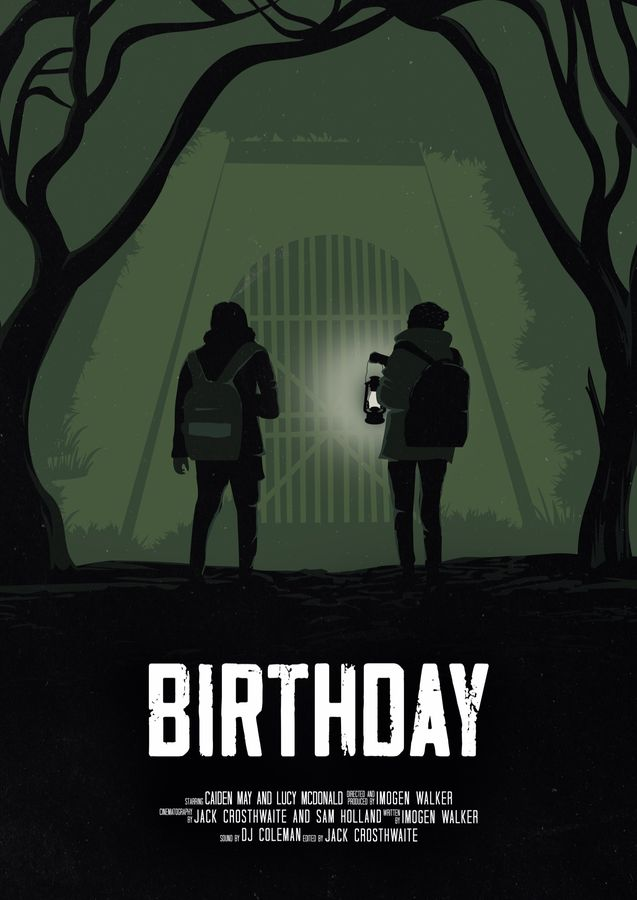
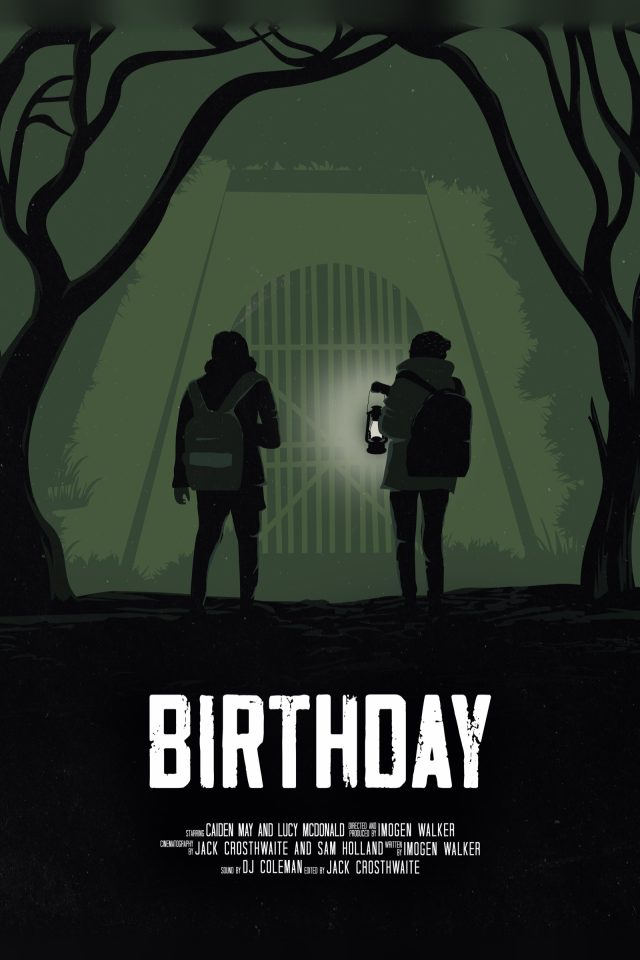
Posters: uniform 2:3, squarer corners
Claude-Session: https://claude.ai/code/session_016ejhHHtzx1tuJYn1oTBXUo

diff --git a/index.html b/index.html
@@ -100,7 +100,7 @@ body::after{content:"";position:fixed;inset:0;pointer-events:none;z-index:50;opa
 .yr .num{position:sticky;left:var(--padX);align-self:start;justify-self:start;padding-right:.12em;white-space:nowrap;font:200 var(--ny)/.8 var(--disp);letter-spacing:-.05em;color:#1b1a19;pointer-events:none;margin-top:-.04em}
 .row{position:relative;z-index:1;display:flex;gap:clamp(16px,2vw,34px);align-items:flex-end;justify-self:start}
 .cv{flex:none;width:calc(var(--ph)*var(--r));display:grid;gap:12px;transform-origin:50% 100%;transform:scale(calc(.9 + .1*var(--f,1)));opacity:calc(.55 + .45*var(--f,1));will-change:transform,opacity}
-.cv .pic{height:var(--ph);border-radius:18px;overflow:hidden;background:#141312}
+.cv .pic{height:var(--ph);border-radius:6px;overflow:hidden;background:#141312}
 .cv .pic img{width:100%;height:100%;object-fit:cover}
 .cv .b{height:64px;overflow:hidden}
 .cv h3{margin:0;font:300 clamp(13px,1.9dvh,17px)/1.2 var(--disp);letter-spacing:-.01em;white-space:nowrap;overflow:hidden;text-overflow:ellipsis}
@@ -290,7 +290,7 @@ input:focus,textarea:focus{border-color:#4a4744}
 {
 const AUDIO={"t01": "t01.mp3", "t02": "t02.mp3", "t03": "t03.mp3", "t04": "t04.mp3", "t05": "t05.mp3", "t06": "t06.mp3", "t07": "t07.mp3", "t08": "t08.mp3", "t09": "t09.mp3", "t10": "t10.mp3", "t11": "t11.mp3", "t12": "t12.mp3"};   // track id -> file in audio/
 const TRACKS=[["t01", "A Home That No Longer Remembers Us", "2:47", "In development"], ["t02", "The Weight of an Invisible Shadow", "4:22", "LeO"], ["t03", "Bodies Out of Focus", "2:56", "LeO"], ["t04", "Bella ci dormi", "2:40", "Jusqu’au prochain souffle"], ["t05", "Breath Out", "2:22", "Façade"], ["t06", "Everything Returns, Slightly Changed", "4:14", "LeO · with Andrea Pagliara"], ["t07", "What Remains Between Us", "4:37", "LeO · with Andrea Pagliara"], ["t08", "Echoes of the True Self", "1:59", "Murdrum"], ["t09", "p e r d e r e", "2:29", "Birthday"], ["t10", "On The Ring", "3:00", "Nino Benvenuti · with Andrea Pagliara"], ["t11", "Alfredo", "1:30", "Alfredo · with Andrea Pagliara"], ["t12", "Vicini Vicini", "1:11", "Sicilia Express · theme by Paolo Buonvino, arr."]];
-const WORKS=[["2026", [["Le Cose Non Dette", "Film", "Gabriele Muccino", "Electronic programming, assistant to composer", "le-cose-non-dette.jpg", 0.7], ["Dio Ride", "Film", "Giovanni Veronesi", "Electronic programming, assistant to composer", "dio-ride.jpg", 0.7], ["Bare", "Film", "Lorna Tucker", "Electronic programming, assistant to composer", "bare.jpg", 0.678], ["Starmaker", "Film", "Joshua David Pivato", "Composer", "starmaker.jpg", 0.667], ["Luce e Ombra", "Dance", "Accademia Nazionale di Danza", "Composer", "luce-e-ombra.jpg", 1], ["Frida", "Opera musical", "", "Arranger, orchestrator", "frida.jpg", 0.8], ["Rat Poison", "Short", "Mina Kaya", "Composer", "rat-poison.jpg", 0.71]]], ["2025", [["Sicilia Express", "Series", "Netflix", "Arranger, electronic programming, assistant to composer", "sicilia-express.jpg", 0.8], ["Nino Benvenuti", "Documentary", "Rai Storia", "Additional music, guitars", "nino-benvenuti.jpg", 0.798], ["Van Gogh Café", "Opera musical", "", "Arranger, orchestrator", "van-gogh-cafe.jpg", 0.707], ["Alfredo", "Short", "Sveva Salimene", "Composer", "alfredo.jpg", 0.701], ["Murdrum", "Short", "Job Gailey", "Composer", "murdrum.jpg", 0.707], ["Jusqu’au prochain souffle", "Short", "", "Composer", "jusqu-au-prochain-souffle.jpg", 0.707]]], ["2024", [["Il Vajont di Tutti", "Opera musical", "", "Arranger, orchestrator", "il-vajont-di-tutti.jpg", 0.707], ["Cicatrix", "Short", "U. Güven, T. D. Ipek, D. S. Bilgiç", "Composer", "cicatrix.jpg", 0.675], ["The Chitin Hunter", "Short", "Pratham Mudbidri", "Composer", "the-chitin-hunter.jpg", 0.705]]], ["2023", [["Maintenance", "Short", "Pablo Aguilar", "Composer", "maintenance.jpg", 0.707], ["Birthday", "Short", "Imogen Walker", "Composer", "birthday.jpg", 0.707], ["Façade", "Short", "Pratham Mudbidri", "Composer", "facade.jpg", 0.707], ["Bête Noir", "Short", "Jeremy Brondoni", "Composer", "bete-noir.jpg", 0.707], ["Contractors", "Short", "Michael Payne", "Composer", "contractors.jpg", 1]]], ["2022", [["Burn To Be Reborn", "Short", "Irene Loreti, Carla Mariani", "Composer", "burn-to-be-reborn.jpg", 1]]]];
+const WORKS=[["2026", [["Le Cose Non Dette", "Film", "Gabriele Muccino", "Electronic programming, assistant to composer", "le-cose-non-dette.jpg", 0.667], ["Dio Ride", "Film", "Giovanni Veronesi", "Electronic programming, assistant to composer", "dio-ride.jpg", 0.667], ["Bare", "Film", "Lorna Tucker", "Electronic programming, assistant to composer", "bare.jpg", 0.667], ["Starmaker", "Film", "Joshua David Pivato", "Composer", "starmaker.jpg", 0.667], ["Luce e Ombra", "Dance", "Accademia Nazionale di Danza", "Composer", "luce-e-ombra.jpg", 0.667], ["Frida", "Opera musical", "", "Arranger, orchestrator", "frida.jpg", 0.667], ["Rat Poison", "Short", "Mina Kaya", "Composer", "rat-poison.jpg", 0.667]]], ["2025", [["Sicilia Express", "Series", "Netflix", "Arranger, electronic programming, assistant to composer", "sicilia-express.jpg", 0.667], ["Nino Benvenuti", "Documentary", "Rai Storia", "Additional music, guitars", "nino-benvenuti.jpg", 0.667], ["Van Gogh Café", "Opera musical", "", "Arranger, orchestrator", "van-gogh-cafe.jpg", 0.667], ["Alfredo", "Short", "Sveva Salimene", "Composer", "alfredo.jpg", 0.667], ["Murdrum", "Short", "Job Gailey", "Composer", "murdrum.jpg", 0.667], ["Jusqu’au prochain souffle", "Short", "", "Composer", "jusqu-au-prochain-souffle.jpg", 0.667]]], ["2024", [["Il Vajont di Tutti", "Opera musical", "", "Arranger, orchestrator", "il-vajont-di-tutti.jpg", 0.667], ["Cicatrix", "Short", "U. Güven, T. D. Ipek, D. S. Bilgiç", "Composer", "cicatrix.jpg", 0.667], ["The Chitin Hunter", "Short", "Pratham Mudbidri", "Composer", "the-chitin-hunter.jpg", 0.667]]], ["2023", [["Maintenance", "Short", "Pablo Aguilar", "Composer", "maintenance.jpg", 0.667], ["Birthday", "Short", "Imogen Walker", "Composer", "birthday.jpg", 0.667], ["Façade", "Short", "Pratham Mudbidri", "Composer", "facade.jpg", 0.667], ["Bête Noir", "Short", "Jeremy Brondoni", "Composer", "bete-noir.jpg", 0.667], ["Contractors", "Short", "Michael Payne", "Composer", "contractors.jpg", 0.667]]], ["2022", [["Burn To Be Reborn", "Short", "Irene Loreti, Carla Mariani", "Composer", "burn-to-be-reborn.jpg", 0.667]]]];
 const VIDEOS=[["ab0v_lUS5qM", "Tape Explorations"], ["puJDctlBKIg", "Speculative Memories"], ["xh6746JX6b8", "FUGUE/TRAMPOLINE"], ["PxWVAe1Pt_Q", "A Night Odyssey (Making Of)"]];
 const esc=s=>String(s).replace(/[&<>"']/g,c=>({'&':'&amp;','<':'&lt;','>':'&gt;','"':'&quot;',"'":'&#39;'}[c]));
 const still=matchMedia('(prefers-reduced-motion:reduce)');
